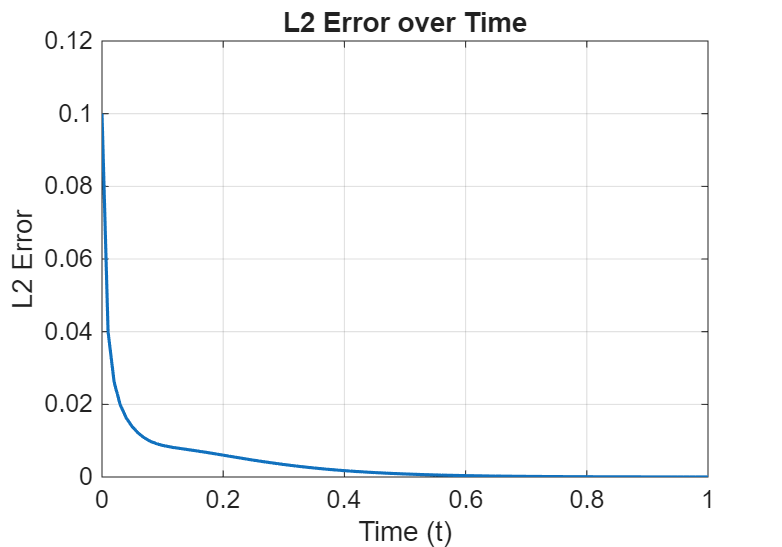
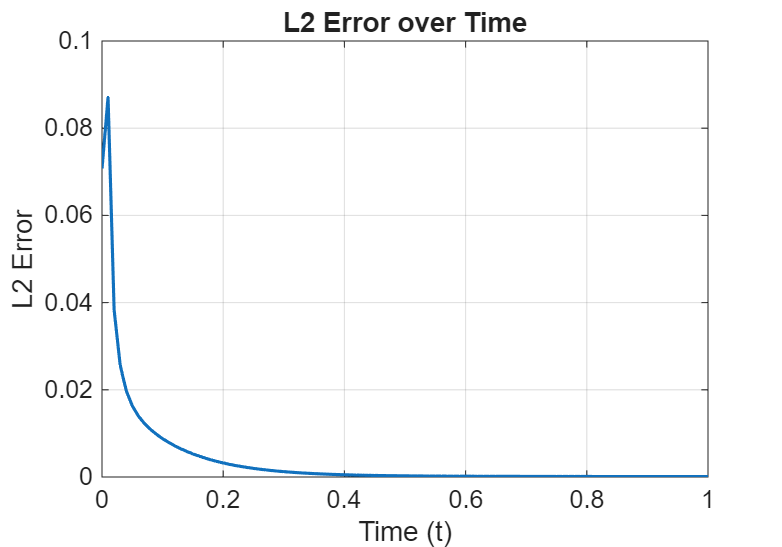
added force matrix from higher order

Changed region(s): [[0.0307, 0.1865, 0.5831, 0.8702], [0.0614, 0.0622, 0.1228, 0.0932]]

diff --git a/cw2/src/solver/NumericSolver.m b/cw2/src/solver/NumericSolver.m
@@ -31,7 +31,7 @@ classdef NumericSolver
             % loop over time steps
             for step = 1:length(time_vector) - 1
 
-                c_next = NumericSolver.SolveStep(mesh, solution, step, dt, theta, K, M, left_boundary, right_boundary, source_fn);
+                c_next = NumericSolver.SolveStep(mesh, solution, step, dt, theta, K, M, left_boundary, right_boundary, source_fn, integration_method);
                 solution.SetValues(c_next, step + 1);
 
             end
@@ -42,7 +42,7 @@ classdef NumericSolver
 
     methods (Static, Access = private)
 
-        function c = SolveStep(mesh, solution, step, dt, theta, K, M, left_boundary, right_boundary, source_fn)
+        function c = SolveStep(mesh, solution, step, dt, theta, K, M, left_boundary, right_boundary, source_fn, integration_method)
 
             c_current = solution.values(:, step);
 
@@ -53,8 +53,8 @@ classdef NumericSolver
             rhs_vector = (M - (1 - theta) * dt * K) * c_current;
 
             % add source term
-            f_current = NumericSolver.CreateSourceVector(mesh, t, source_fn);
-            f_next = NumericSolver.CreateSourceVector(mesh, t + dt, source_fn);
+            f_current = NumericSolver.CreateSourceVector(mesh, t, source_fn, integration_method);
+            f_next = NumericSolver.CreateSourceVector(mesh, t + dt, source_fn, integration_method);
             rhs_vector = rhs_vector + dt * (theta * f_next + (1 - theta) * f_current);
 
             % apply boundary conditions
@@ -103,7 +103,7 @@ classdef NumericSolver
         end
 
         %% Create source vector for given time
-        function F = CreateSourceVector(mesh, t, source_fn)
+        function F = CreateSourceVector(mesh, t, source_fn, integration_method)
 
             F = zeros(mesh.node_count, 1);
 
@@ -122,7 +122,7 @@ classdef NumericSolver
                 f_val = source_fn(midpoint, t);
 
                 % Local Force Vector for linear element (Int N^T * s dx)
-                f_local = f_val * elem_size / 2 * [1; 1];
+                f_local = f_val * ElementMatrices.ForceMatrix(element, integration_method);
 
                 nodes = element.node_ids;
                 F(nodes) = F(nodes) + f_local;

diff --git a/cw2/src/solver/ElementMatrices.m b/cw2/src/solver/ElementMatrices.m
@@ -114,6 +114,36 @@ classdef ElementMatrices
             end
         
         end
+
+        function matrix = ForceMatrix(element, method)
+
+            elem_size = element.node_coords(end) - element.node_coords(1); 
+
+            if method.type == IntegrationType.Trapezoidal
+
+                % create base matrix
+                matrix = ones(element.order + 1, 1);
+
+                % apply matrix scaling
+                matrix = matrix * (elem_size / 2);
+                
+            else
+
+                matrix = zeros(element.order + 1, 1);
+                [xi, wi] = ElementMatrices.GaussQuadraturePoints(method.gauss_points);
+
+                for i = 1:length(xi)
+                    N = ElementMatrices.ShapeFunctions(element.order, xi(i));
+
+                    J = element.jacobian;
+
+                    % compute contribution to stiffness matrix
+                    matrix = matrix + N' * (wi(i) * J);
+                end
+
+            end
+
+        end
     end
 
     methods (Static, Access = private)

diff --git a/cw2/src/main.m b/cw2/src/main.m
@@ -49,7 +49,7 @@ function main()
 
     l2_error = L2Error(analytical_solution, numeric_solution);
 
-    %Plotter.PlotL2Error(l2_error, "L2 Error over Time", 'cw2/report/resources/L2Error');
+    Plotter.PlotL2Error(l2_error, "L2 Error over Time", 'cw2/report/resources/L2Error');
 
     if true
 
